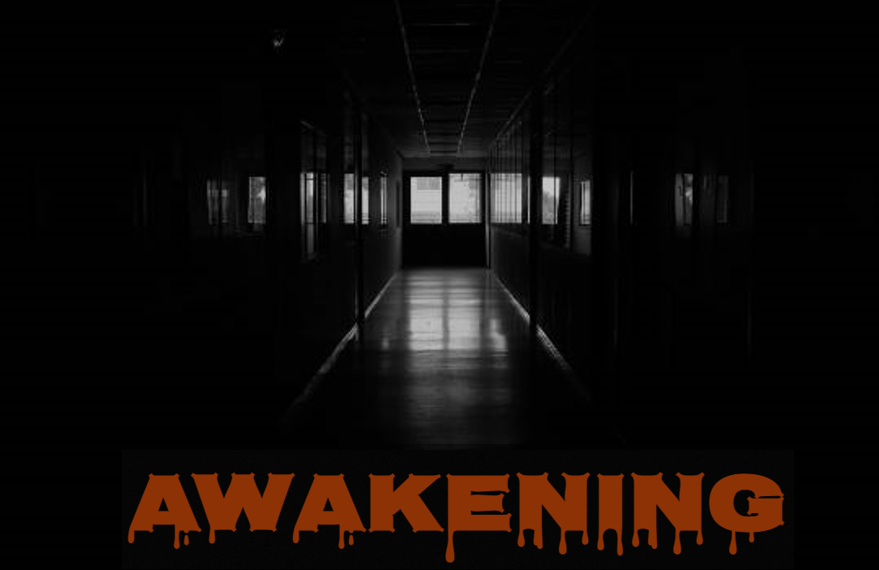
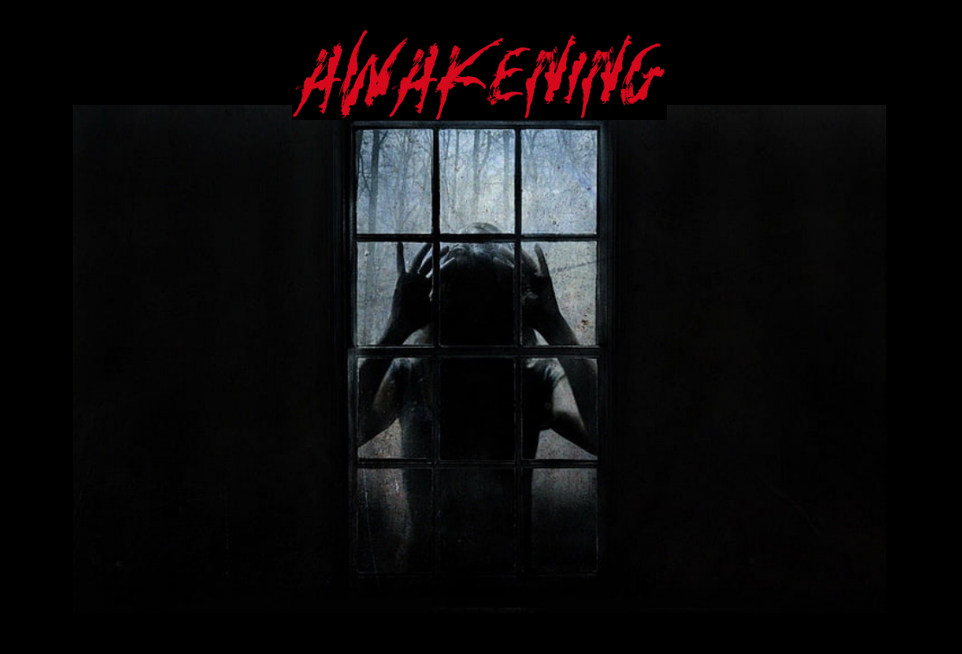
AB#696, AB#694 UI updates: - changed the text font to make it more readable - updated the cover picture, cause, why not - bug fix, not the screen shows immediately after game starts

Changed region(s): [[0.1229, 0.0596, 0.8908, 0.9842], [0.215, 0.2982, 0.3072, 0.4175], [0.7679, 0.2982, 0.7986, 0.3877]]

diff --git a/src/com/awakening/gui/app/Awakening_Font.java b/src/com/awakening/gui/app/Awakening_Font.java
@@ -4,12 +4,15 @@ import java.awt.*;
 
 public class Awakening_Font {
     public static Font getNormalFont(){
-        return new Font("Times New Roman", Font.PLAIN, 20);
+        return new Font("Copperplate Gothic Bold", Font.PLAIN, 20);
     }
     public static Font buttonSelectionFont(){
-        return new Font("Courier", Font.PLAIN, 25);
+        return new Font("Copperplate Gothic Bold", Font.PLAIN, 25);
     }
     public static Font getSmallTextFont(){
-        return new Font("Courier", Font.PLAIN, 14);
+        return new Font("Copperplate Gothic Bold", Font.PLAIN, 14);
+    }
+    public static Font getSpecialFont(){
+        return new Font("Copperplate Gothic Bold", Font.PLAIN, 15);
     }
 }

diff --git a/src/com/awakening/gui/app/GameStart.java b/src/com/awakening/gui/app/GameStart.java
@@ -28,7 +28,6 @@ public class GameStart {
         window.getContentPane().setBackground(Color.BLACK);
 
         window.setLayout(null);
-        window.setVisible(true);
         container = window.getContentPane();
         container.setLayout(new GridBagLayout());
 
@@ -84,6 +83,9 @@ public class GameStart {
         c.gridy = 2;
         container.add(buttonPanel_start_screen, c);
         window.getContentPane().repaint();
+
+        window.setVisible(true);
+        window.revalidate();
     }
 
     public static void restartGame() {

diff --git a/src/com/awakening/gui/app/GameHomePage.java b/src/com/awakening/gui/app/GameHomePage.java
@@ -33,7 +33,7 @@ public class GameHomePage {
         homePageTextArea = new JTextArea(ui.splashScreen(), 20, 96);
         homePageTextArea.setBackground(Color.black);
         homePageTextArea.setForeground(Color.green);
-        homePageTextArea.setFont(Awakening_Font.getNormalFont());
+        homePageTextArea.setFont(Awakening_Font.getSpecialFont());
         homePageTextArea.setLineWrap(true);
 
         scrollableTextArea = new JScrollPane(homePageTextArea, JScrollPane.VERTICAL_SCROLLBAR_AS_NEEDED,

diff --git a/src/com/awakening/gui/app/EndGame.java b/src/com/awakening/gui/app/EndGame.java
@@ -39,7 +39,7 @@ public class EndGame {
         restartButton.setForeground(Color.lightGray);
         restartButton.setFont(Awakening_Font.getSmallTextFont());
         restartButton.setFocusPainted(false);
-        //restartButton.addActionListener( e -> GameStart.restartGame());
+        restartButton.addActionListener( e -> GameStart.restartGame());
 
         // Add image
         c.gridx = 1;
